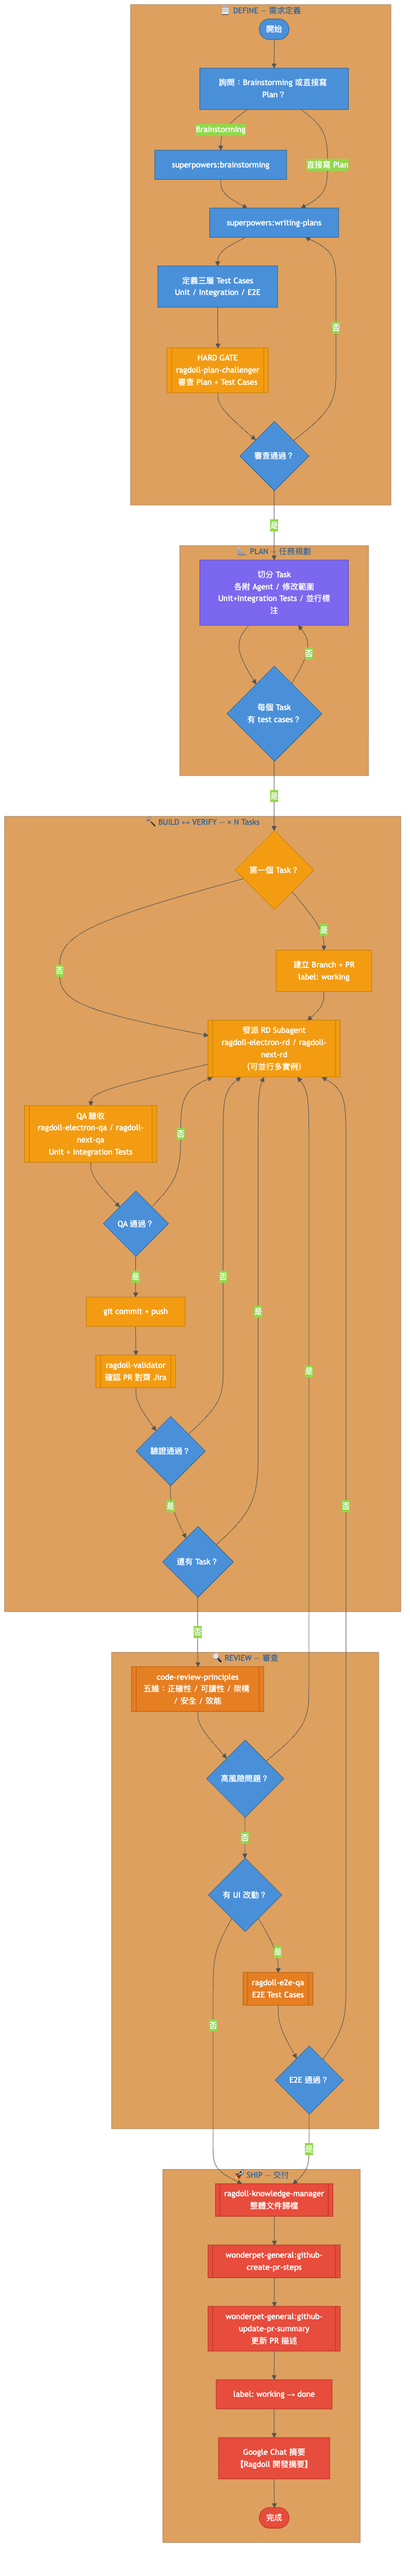
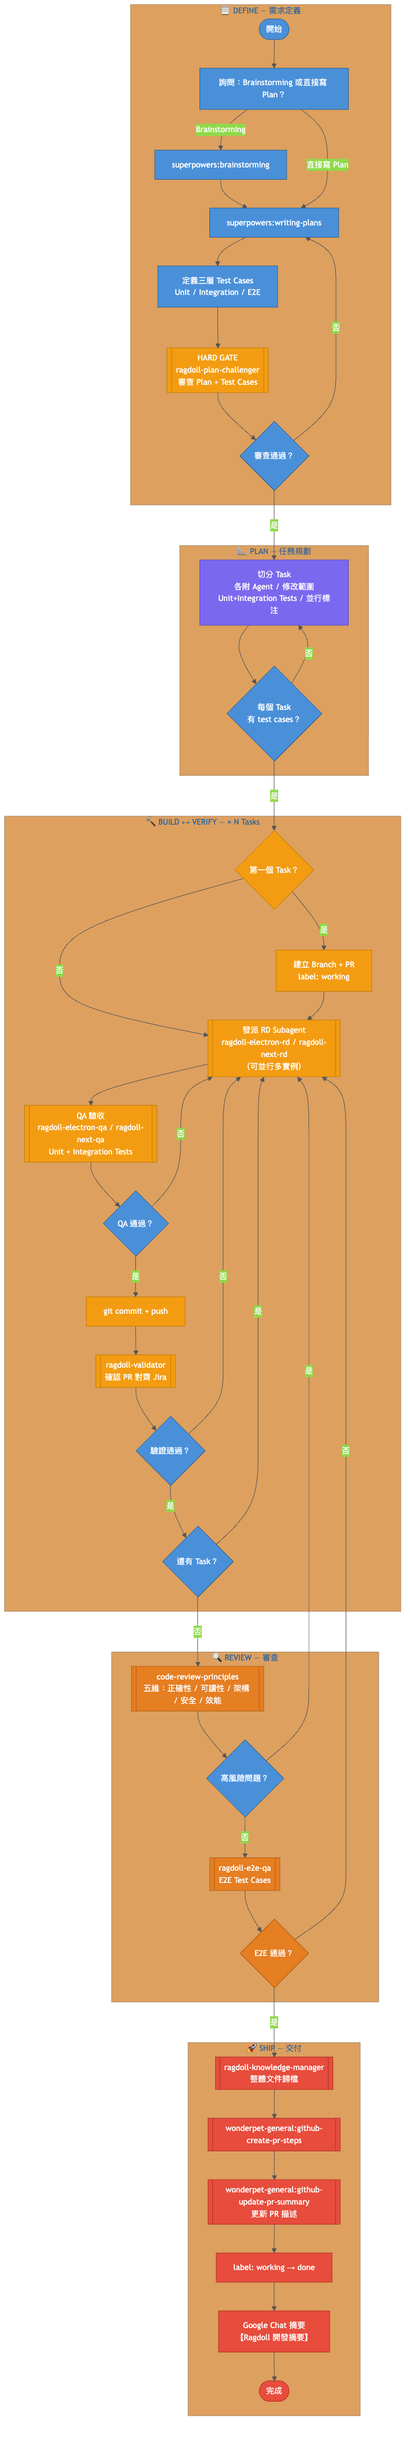
fix(ragdoll-develop-workflow): E2E 改為無條件執行，移除 UI 改動判斷

diff --git a/plugins/ragdoll-workspace/skills/ragdoll-develop-workflow/SKILL.md b/plugins/ragdoll-workspace/skills/ragdoll-develop-workflow/SKILL.md
@@ -49,7 +49,7 @@ cd .. && npx husky install
 [DEFINE]         需求 → Brainstorming（可選）→ Plan + 三層 Test Cases → plan-challenger
 [PLAN]           Task 切分（含並行標注）+ HARD GATE
 [BUILD ↔ VERIFY] RD → QA（unit+integration）→ commit → validator  × N Tasks
-[REVIEW]         Code Review（五維）→ E2E QA（UI 改動時）
+[REVIEW]         Code Review（五維）→ E2E QA
 [SHIP]           Knowledge Manager → PR 完善 → PR 描述更新 → label done → Chat
 ```
 
@@ -230,14 +230,12 @@ git push
 | 中風險 | 記錄於 PR comment，由使用者決定是否修正 |
 | 低風險 | 列入改善建議，不阻擋進入 [SHIP] |
 
-### Step 9 — E2E QA（有 UI 改動時）
+### Step 9 — E2E QA
 
 發派 `ragdoll-workspace:ragdoll-e2e-qa`，執行 [DEFINE] 階段定義的 E2E test cases。
 
 - **通過** → 進入 [SHIP]
 - **失敗** → 定位失敗的 Task，轉交對應 RD 修正，修正後重走 [BUILD ↔ VERIFY] 該 Task，再回 Step 9
-
-若需求**不含 UI 改動** → 跳過此步，直接進入 [SHIP]。
 
 ---
 
